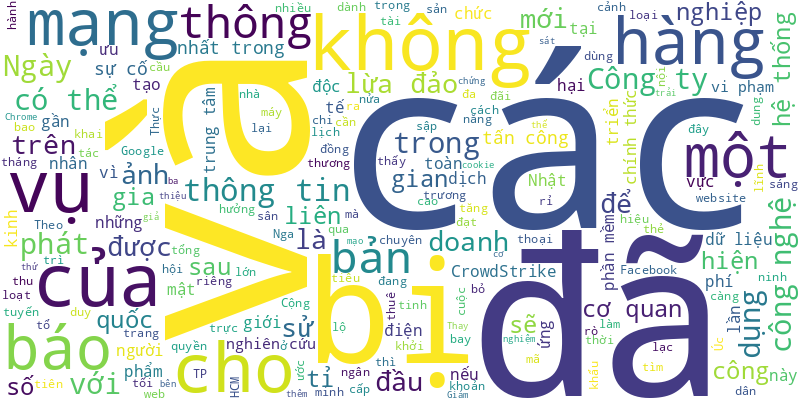
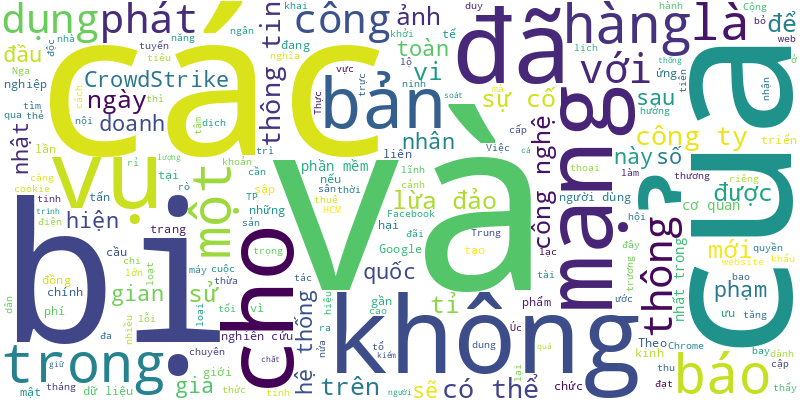
🍀 = 50%

diff --git a/README.md b/README.md
@@ -1,6 +1,12 @@
 # Tuoi Tre RSS 
 
 ## Giáo dục 
+- Nhiều học sinh TP.HCM dù đậu vào lớp 10 trường THPT công lập nhưng vẫn chọn học trường tư thục để dễ hiện thực hóa mục tiêu nghề nghiệp trong tương lai hơn.
+- Thi xong, Đức Mạnh cũng như nhiều bạn bè của mình không khỏi lo lắng: lo không làm được bài, lo điểm thấp… Nhưng hơn một tuần sau đó, bạn tỉnh táo gác lại những âu lo bởi biết mình vẫn còn những cơ hội khác.
+- Năm nay, ngành quan hệ công chúng của Trường đại học Khoa học xã hội và Nhân văn dẫn đầu điểm chuẩn phương thức xét kết hợp chứng chỉ tiếng Anh quốc tế với điểm thi tốt nghiệp THPT.
+- Đều đặn mỗi sáng trong hè, chùa Lập Thạch bên bờ sông Thạch Hãn rộn tiếng cười nói của học trò các lớp học hè từ lớp 1 đến lớp 9, vừa học chữ vừa rèn đạo đức.
+- Viện trưởng Viện Nghiên cứu kinh tế nhịp cầu tri thức vừa có thông tin chính thức về việc miễn nhiệm các chức vụ của TS Bạch Quang Vũ tại viện này.
+- Trong số 265 thành viên các hội đồng giáo sư ngành, liên ngành năm 2024 của Hội đồng Giáo sư nhà nước có 4 nhà khoa học 8X.
 - Nhiều thí sinh tá hỏa vì không thấy các mã trường cao đẳng ở đâu.
 - Có trường đại học công bố điểm sàn từ 14 điểm, có trường điểm sàn cao nhất 24,5. Chưa tới 5 điểm/môn thí sinh đã có thể xét tuyển vào nhóm ngành "hot" của một số trường đại học.
 - Với nhiệt huyết dành cho việc bảo tồn đa dạng sinh học, ThS Huỳnh Ngọc Thái Anh và cộng sự đã nghiên cứu ứng dụng trí tuệ nhân tạo để nhận dạng loài chim quý hiếm tại rừng ngập mặn Cần Giờ (TP.HCM).
@@ -25,46 +31,42 @@
 - Ở tuổi 61, ông Kato Mitsuru, quốc tịch Nhật Bản, đăng ký học thạc sĩ khu vực học định hướng Việt Nam học, tại Trường đại học Việt Nhật và trở thành học viên "đặc biệt" nhất khóa VII.
 - Sinh viên được tiếp nhận vào ký túc xá Cỏ May sẽ được ở miễn phí, chu cấp tiền ăn hằng tháng và học phí.
 - Vốn có đam mê với bọ cánh cứng, bươm bướm, bạn Nguyễn Kim Long (sinh viên năm 3) đã mở cửa hàng trưng bày và dạy làm tiêu bản.
-- Làm thế nào để nâng cao tính tự học cho sinh viên, cách nào để xu thế quốc tế hóa giáo dục đại học được nhân rộng?...
-- Xét tuyển kết hợp là thế nào? Chọn ngành lấy điểm chuẩn thấp sẽ khó kiếm việc làm?
-- Sáng 20-7, đông đảo phụ huynh đã cùng con đến Ngày tư vấn xét tuyển đại học, cao đẳng 2024 tại TP.HCM để được tư vấn xét tuyển đại học.
-- Đăng ký nguyện vọng thế nào là nỗi băn khoăn lớn của nhiều phụ huynh, thí sinh đến với Ngày tư vấn xét tuyển ĐH, CĐ 2024 tại Hà Nội.
-- Dù là năm đầu tiên tuyển sinh ngành tâm lý học, Trường đại học Y Hà Nội dự báo điểm chuẩn khối C và D01 vào ngành này sẽ rất cạnh tranh.
-- Trường đại học Thương mại công bố điểm chuẩn gồm tuyển kết hợp chứng chỉ quốc tế với kết quả thi tốt nghiệp THPT năm 2024 từ 19 - 24 điểm.
 ![Edu](Edu.png)
 ## Thời Sự 
-- Mưa lớn kéo dài khiến nhiều tuyến đường ở Hà Nội ngập và ùn tắc từ chiều tới đêm 23-7. Nhiều tài xế mắc kẹt trên đường, vật vã tìm lối về nhà.
-- Cơn mưa lớn rạng sáng nay khiến nước từ nhiều nơi đổ về một khu vực, một số tuyến đường ở thành phố Sơn La (tỉnh Sơn La) ngập sâu, nước chảy như sông.
-- Khăn gói vội vàng lên đường đến Việt Nam ngay sau khi hay tin Tổng bí thư Nguyễn Phú Trọng từ trần, ông Cho Chul Hyeon đã rơi nước mắt tại Hà Nội.
-- Phó thủ tướng Trần Lưu Quang vừa ký quyết định phê chuẩn miễn nhiệm chức danh chủ tịch UBND tỉnh Bắc Ninh nhiệm kỳ 2021 - 2026 với bà Nguyễn Hương Giang.
-- Từ nơi sâu thẳm giữa núi rừng Tây Nguyên, bà con đồng bào Ba Na những ngày này nhớ về chuyến thăm xã nghèo Ayun, huyện Chư Sê (Gia Lai) của Tổng bí thư Nguyễn Phú Trọng vào tháng 4-2017.
-- Hôm nay dù bão đã tan nhưng lại suy yếu thành vùng áp thấp khiến thời tiết Bắc Bộ duy trì mưa to, các tỉnh Tây Nguyên, Nam Bộ mưa rào chiều tối.
-- Trong suốt quá trình điều trị tại Bệnh viện Trung ương quân đội 108, Tổng bí thư Nguyễn Phú Trọng vẫn làm việc cho đến khi trút hơi thở cuối cùng.
-- Tin tức đáng chú ý: 9 quận huyện của TP.HCM không còn hộ nghèo đa chiều; Xử lý nghiêm cơ sở thẩm mỹ vi phạm; Đại học Quốc gia Hà Nội trong nhóm 100 cơ sở giáo dục hàng đầu châu Á về tiêu chí Mức độ ảnh hưởng...
-- Ô tô trọng tải trên 10 tấn và xe khách 40 chỗ trở lên (trừ xe thực thi công vụ) sẽ bị cấm đi vào các tuyến giao thông hướng về trung tâm Hà Nội trong thời gian diễn ra lễ Quốc tang.
-- Chủ tịch Quốc hội Trần Thanh Mẫn nêu rõ Tổng bí thư Nguyễn Phú Trọng luôn dành sự quan tâm đặc biệt, sự lãnh đạo, chỉ đạo toàn diện, khách quan, khoa học, rất cụ thể, sâu sắc đối với tổ chức, hoạt động của Quốc hội.
-- Từ ngày 27-7, các loại xe tải trên 5 tấn, container sẽ bị cấm đi lên cầu vượt thép ngã tư Thủ Đức để xây dựng cầu đi bộ (thuộc tuyến metro số 1).
-- Một quán cơm nằm trên quốc lộ 1 đoạn qua xã Vạn Thắng (huyện Vạn Ninh, Khánh Hòa) bị khách tố “chặt chém”, thậm chí quán này không có biển hiệu rõ ràng, địa chỉ và tên trên Google Maps.
-- Văn phòng Chính phủ vừa có văn bản gửi Bộ trưởng Bộ Y tế về việc khẩn trương giải quyết, tháo gỡ khó khăn, vướng mắc tại hai dự án cơ sở 2 Bệnh viện Bạch Mai và Bệnh viện Hữu nghị Việt Đức.
-- Liên quan việc tàu cao tốc TP.HCM đi Côn Đảo tạm dừng chạy vào cuối tháng 7-2024, các sở ngành sẽ tìm giải pháp để khuyến khích, hỗ trợ doanh nghiệp.
-- Mưa kéo dài từ sáng đến tối 23-7 khiến nhiều tuyến đường tại Hà Nội ngập sâu trong biển nước, giao thông hỗn loạn.
-- Đoàn do Thủ tướng Hàn Quốc Han Duck Soo dẫn đầu sẽ ở Việt Nam trong hai ngày để dự tang lễ Tổng bí thư Nguyễn Phú Trọng, theo Đại sứ quán nước này.
-- Tòa án nhân dân TP Thủ Đức (TP.HCM) hủy bỏ biện pháp ngăn chặn khẩn cấp tạm thời đã áp dụng đối với công trình không phép trong Đồi Cù Đà Lạt.
-- 5 hài cốt liệt sĩ cùng nhiều di vật được tìm thấy ở rừng tràm tại huyện Hải Lăng. Cùng thời điểm, 2 hài cốt liệt sĩ khác được tìm thấy ở vườn cà phê tại huyện Hướng Hóa, Quảng Trị.
-- Từ 22h đêm nay (23-7), hồ thủy điện Hòa Bình mở cửa xả đáy thứ 3 (hay còn gọi xả lũ) để đưa về mực nước cao nhất trước lũ trong thời kỳ lũ chính vụ.
-- Nhiều thân nhân liệt sĩ từ miền Bắc, Bắc Trung Bộ không nén được cảm xúc tại buổi truy điệu, an táng 3 hài cốt liệt sĩ vừa tìm thấy tại huyện Khánh Vĩnh (Khánh Hòa), vì dù chưa xác định được danh tính nhưng đó có thể là hài cốt người thân của họ.
-- UBND TP Cà Mau cho biết đang phối hợp cơ quan chuyên môn thực hiện quy trình cưỡng chế và xử lý các bước tiếp theo đối với căn biệt thự 'đẹp nhất Cà Mau', theo tinh thần quyết định đã ban hành.
-- Bộ Tài nguyên và Môi trường chưa thông qua báo cáo đánh giá tác động môi trường, việc hoàn thành dự án hồ Ka Pét như đúng tiến độ ban đầu là rất khó.
-- Sau hai ngày xét xử, chiều 23-7, TAND TP Đà Nẵng tuyên án các bị cáo trong vụ sai phạm xảy ra tại Trường đại học Bách khoa Đà Nẵng.
-- Hoàn lưu bão số 2 tiếp tục gây mưa lớn ở Bắc Bộ, Thanh Hóa, Nghệ An và kéo dài đến đêm mai, nguy cơ xảy ra lũ quét, sạt lở đất ở vùng núi và ngập lụt ở đô thị.
-- Sau khi ăn bữa cơm trưa do đơn vị bên ngoài cung cấp, hơn 60 công nhân tại Bình Phước phải nhập viện cấp cứu khẩn cấp.
-- Việc xử lý nghiêm các xe khách, xe container... vi phạm tốc độ qua dữ liệu GPS góp phần giảm tai nạn giao thông.
-- Nhiều tuyến đường ở Quảng Ninh, Bắc Giang, Sơn La... đang ngập sâu và bị sạt lở do mưa lớn, ảnh hưởng từ hoàn lưu bão số 2.
-- Căn phòng bệnh gần 20 mét vuông tại Bệnh viện Trung ương Quân đội 108 là nơi Tổng bí thư Nguyễn Phú Trọng gắn bó khi điều trị bệnh.
-- Đà Nẵng dự kiến sắp xếp 17 đơn vị hành chính cấp phường, giảm 9 phường. Dự kiến dôi dư hơn 100 cán bộ, công chức thì giải quyết chế độ ra sao?
-- Dự án tái định cư kéo dài hơn 10 năm rồi không thực hiện, nhưng người dân lại phải tiếp tục mòn mỏi chờ hủy… dự án treo.
+- Một dự án bất động sản tại Đà Nẵng chưa đủ điều kiện nhưng đã rao bán rầm rộ trên mạng xã hội, thậm chí có một số trang còn giới thiệu đã phân phối thu về hàng trăm tỉ đồng.
+- Nhà ở riêng lẻ có mục đích cho thuê trọ ở TP.HCM sẽ được hỗ trợ vay vốn, giá điện nước để xây dựng, cải tạo thành nhà trọ an toàn, bảo đảm diện tích tối thiểu.
+- Từ sáng sớm 25-7, nhiều người dân đã về làng Lại Đà, xã Đông Hội, huyện Đông Anh, Hà Nội - quê hương Tổng bí thư Nguyễn Phú Trọng, để chuẩn bị vào viếng.
+- Sáng nay 25-7, Lễ Quốc tang Tổng bí thư Nguyễn Phú Trọng khu vực miền Nam diễn ra tại Hội trường Thống Nhất, TP.HCM.
+- Sáng nay 25-7, cờ rủ được kéo lên tại quảng trường Ba Đình (Hà Nội) cùng dải băng đen. Quốc tang Tổng bí thư Nguyễn Phú Trọng diễn ra trong 2 ngày.
+- Một số tin tức đáng chú ý: Kiểm kê đất đai cả nước từ ngày 1-8-2024; FLC bị cưỡng chế hơn 822 tỉ đồng tiền thuế; Nhân viên y tế công lập ở TP.HCM phải luân chuyển tuyến dưới...
+- Hôm nay, trong ngày đầu tiên lễ Quốc tang Tổng bí thư Nguyễn Phú Trọng, chúng ta cùng tưởng nhớ về một nhân cách lớn.
+- Hôm nay 25-7, mưa dông đã giảm ở Bắc Bộ, ban ngày trời nắng gián đoạn, có lúc mưa rào. Nam Bộ mưa tập trung về chiều tối.
+- Đang thực hiện nhiệm vụ gìn giữ hòa bình Liên Hiệp Quốc ở phái bộ Abyei, nghe tin Tổng bí thư Nguyễn Phú Trọng từ trần, cán bộ, chiến sĩ 'mũ nồi xanh' Việt Nam bày tỏ niềm tiếc thương vô hạn.
+- Sáng nay (25-7), lễ Quốc tang Tổng bí thư Nguyễn Phú Trọng được tổ chức tại Nhà tang lễ quốc gia số 5 Trần Thánh Tông, TP Hà Nội.
+- "Một người nhỏ bé, hiền lành, hòa nhã nhưng để lại cho đời một di sản đồ sộ đáng kính trọng", GS.TSKH Vũ Minh Giang nói.
+- Sáng nay 25-7, Lễ Quốc tang Tổng bí thư Nguyễn Phú Trọng được tổ chức tại Nhà tang lễ quốc gia, số 5 Trần Thánh Tông, thành phố Hà Nội.
+- Tổng bí thư Nguyễn Phú Trọng đã từ trần vào ngày 19-7-2024 tại Bệnh viện Trung ương Quân đội 108. Sổ tang điện tử sẽ là nơi bạn đọc thể hiện sự tiếc thương với nhà lãnh đạo lỗi lạc vì dân vì nước.
+- Chủ tịch nước Tô Lâm xúc động khi Cuba là một trong những nước đầu tiên thông báo cử đoàn tới chia buồn và dự lễ tang Tổng bí thư Nguyễn Phú Trọng.
+- Công ty cổ phần Đường sắt Hà Nội và Công ty cổ phần Đường sắt Sài Gòn đều có doanh thu hàng trăm tỉ nhưng lợi nhuận quý 2-2024 đạt được chỉ vài tỉ đồng.
+- Thủ tướng yêu cầu tỉnh Sơn La tổ chức kiểm tra, rà soát, đánh giá nguyên nhân sạt lở đất, ngập lụt tại thành phố Sơn La để có giải pháp khắc phục, hạn chế thiệt hại.
+- Từng trực tiếp tham gia biên tập hơn 20 cuốn sách của Tổng bí thư Nguyễn Phú Trọng, phó giám đốc, phó tổng biên tập Nhà xuất bản Chính trị Quốc gia Sự thật đã học được rất nhiều bài học vô giá.
+- Chủ tịch nước yêu cầu quan tâm đặc biệt, nhanh chóng hơn nữa đến thương binh, bệnh binh, người có công, tương xứng với sự phát triển của đất nước.
+- Trì hoãn chuyển tiền thi hành án với số tiền 158 tỉ đồng, Ngân hàng SHB chi nhánh Phú Nhuận (TP.HCM) đã bị lập biên bản vi phạm hành chính để xử phạt.
+- Từ kinh nghiệm quốc tế đến thực tiễn tại Việt Nam cho thấy việc tăng thuế thuốc lá không làm tăng buôn lậu thuốc lá.
+- Đất đắp cho cao tốc Biên Hòa - Vũng Tàu đã được gỡ khó khi chiều nay 24-7, các đơn vị liên quan đã đồng ý hướng khai thác.
+- Tại thời điểm này, công tác chuẩn bị lễ Quốc tang Tổng bí thư Nguyễn Phú Trọng đã cơ bản hoàn thành. TP.HCM công bố sổ tang điện tử để người dân chia sẻ tình cảm với Tổng bí thư Nguyễn Phú Trọng.
+- Ông Trần Duy Đông, thứ trưởng Bộ Kế hoạch và Đầu tư, được Ban Bí thư điều động, chỉ định giữ chức vụ phó bí thư Tỉnh ủy Vĩnh Phúc nhiệm kỳ 2020-2025.
+- Tổng giám đốc Liên doanh Việt - Nga Vietsovpetro cho biết sẽ xử lý nghiêm các cá nhân thuộc doanh nghiệp này nếu họ đi chơi golf trong giờ làm việc như phản ánh.
+- Lâm Đồng đưa vụ xây dựng trái phép Tòa nhà câu lạc bộ golf Đồi Cù  vào diện theo dõi của BCĐ phòng, chống tham nhũng tiêu cực.
+- Chủ tịch nước đã quyết định truy tặng Huân chương Bảo vệ Tổ quốc hạng ba cho trung tá Trần Duy Hùng - phó trưởng công an phường ở Huế hy sinh trong lúc làm nhiệm vụ.
+- TP.HCM sẽ ban hành quy định buộc nhà ở riêng lẻ có mục đích cho thuê trọ phải bảo đảm diện tích tối thiểu (dự kiến 5m2 sàn/người) và an toàn phòng cháy.
+- Chủ biệt thự “đẹp nhất Cà Mau” cho hay không đủ 10 tỉ đóng tiền chuyển đổi mục đích sử dụng đất nên rao bán biệt thự này.
+- Lực lượng công an xã Mường Bú và huyện Mường La (Sơn La) giải cứu thành công 5 người dân bị mắc kẹt giữa dòng lũ.
+- Ngày 24-7, Chủ tịch nước Tô Lâm, Thường trực Ban Bí thư Lương Cường cùng đoàn đã đi kiểm tra công tác chuẩn bị lễ Quốc tang Tổng bí thư Nguyễn Phú Trọng.
 ![New](News.png)
 ## Nhịp sống số 
+- CrowdStrike thừa nhận sự cố sập hệ thống vi tính toàn cầu là do lỗi trong quá trình kiểm soát chất lượng các bản cập nhật phần mềm của công ty này.
+- Việc Google giữ cookie đồng nghĩa dữ liệu cá nhân của 3 tỉ người dùng Chrome vẫn đang bị các trang mạng theo dõi.
 - Thay vì loại bỏ cookie của bên thứ ba, Google sẽ giới thiệu trải nghiệm mới trên Chrome.
 - Trung tâm Giám sát an toàn không gian mạng quốc gia phát hiện thêm 68 website giả mạo thương hiệu của các cơ quan, tổ chức, ngân hàng để lừa đảo người dân.
 - Ngày 19-7, thế giới đã chứng kiến hàng loạt hệ thống mạng vận hành sân bay, bệnh viện, ngân hàng... ở khắp nơi bị tê liệt.
@@ -93,6 +95,4 @@
 - Người dùng có thể sử dụng công cụ ChatGPT trên các thiết bị iPhone, iPad, Macbook để tạo nội dung văn bản và hình ảnh mà không cần tải ứng dụng riêng.
 - Lần đầu tiên, một cuộc thi được dành riêng cho các tác phẩm ảnh và video dành cho lĩnh vực công nghệ.
 - Ngày 15-5, Công ty TNHH Sản phẩm công nghiệp Toshiba Asia đã tổ chức ngày hội đối tác kinh doanh ‘Business Partners Day 2024’ tại GEM Center, TP.HCM.
-- Sáng 4-6, hệ thống công nghệ thông tin của Tổng công ty Bưu điện Việt Nam (Vietnam Post) đã bị tấn công bất hợp pháp bằng mã độc tống tiền (ransomware).
-- Ngày 4-6-2024, các doanh nghiệp viễn thông và dịch vụ trung tâm dữ liệu hàng đầu khu vực đã công bố chính thức thành lập liên minh AseanConnect.One.
 ![life](Life.png)
